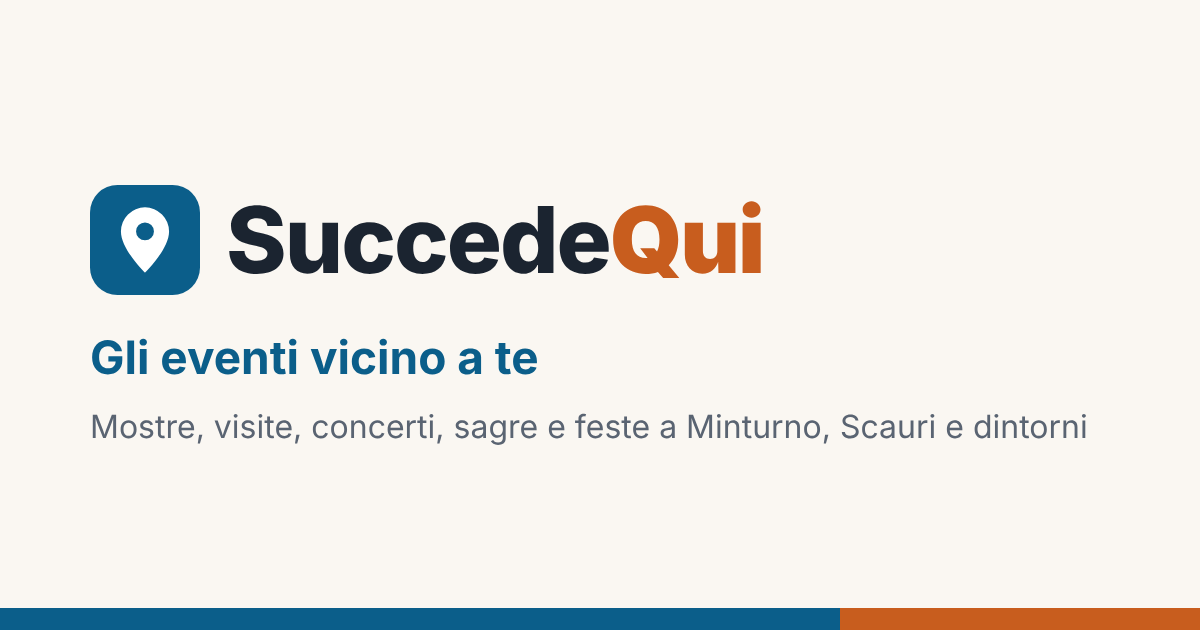
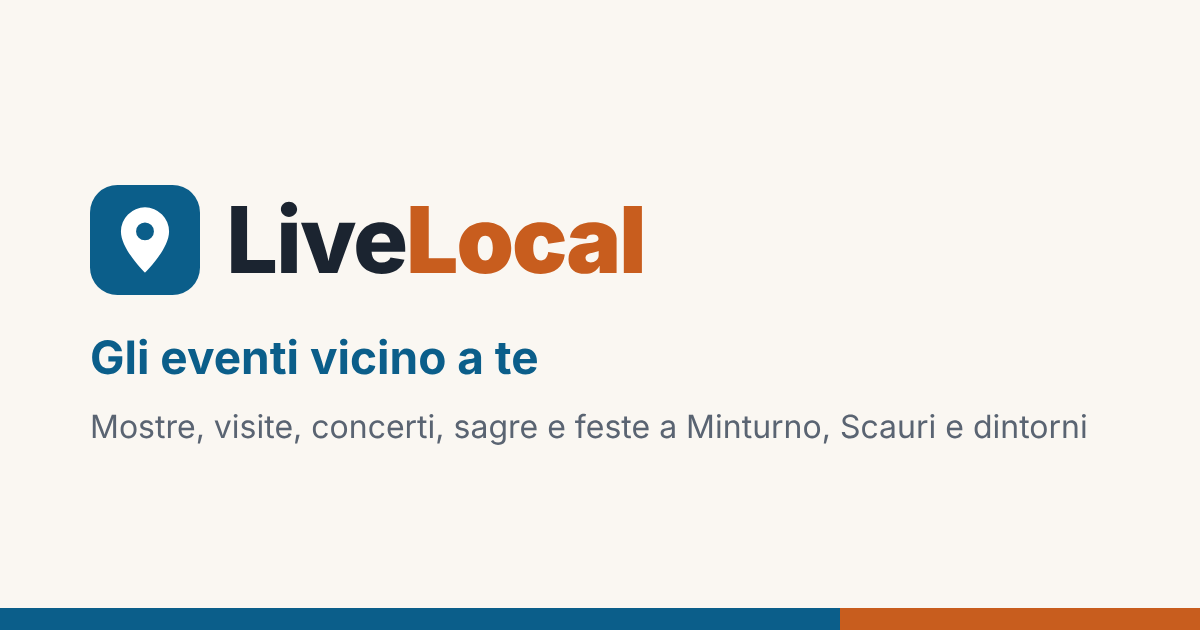
Il sito si chiama LiveLocal
Nuovo nome in intestazione, titoli delle pagine, immagine per le
anteprime su WhatsApp e social, calendario .ics, robots.txt, llms.txt,
README e brief del progetto. Indirizzi delle pagine invariati.

Claude-Session: https://claude.ai/code/session_012jWfbWNtZfDxQvQAswJBxy

Changed region(s): [[0.185, 0.3016, 0.6475, 0.4524]]

diff --git a/src/lib/sito.ts b/src/lib/sito.ts
@@ -2,7 +2,7 @@
 // SITE_URL e BASE_PATH si possono cambiare senza toccare il codice (vedi astro.config.mjs).
 
 export const SITO = {
-  nome: 'SuccedeQui',
+  nome: 'LiveLocal',
   slogan: 'Gli eventi vicino a te',
   descrizione:
     'Calendario gratuito e pubblico degli eventi del territorio: mostre, visite guidate, concerti, sagre, feste e conferenze. Si parte da Minturno, Scauri e le frazioni.',
@@ -11,10 +11,10 @@ export const SITO = {
   promotore: { nome: 'Room & Relax Scauri', url: 'https://roomandrelax.it' },
 };
 
-// Indirizzo pubblico del sito, senza barra finale (es. https://succedequi.it).
-export const SITE_URL: string = (import.meta.env.SITE ?? 'https://succedequi.it').replace(/\/$/, '');
+// Indirizzo pubblico del sito, senza barra finale (es. https://giuseppe210992.github.io).
+export const SITE_URL: string = (import.meta.env.SITE ?? 'https://giuseppe210992.github.io').replace(/\/$/, '');
 
-// Percorso base, con la barra finale (es. "/" oppure "/succedequi/").
+// Percorso base, con la barra finale (es. "/" oppure "/livelocal/").
 const BASE: string = import.meta.env.BASE_URL.endsWith('/')
   ? import.meta.env.BASE_URL
   : `${import.meta.env.BASE_URL}/`;

diff --git a/src/lib/ics.ts b/src/lib/ics.ts
@@ -39,7 +39,7 @@ function piega(riga: string): string {
 function vevento(e: Evento, adesso: Date): string[] {
   const righe = [
     'BEGIN:VEVENT',
-    `UID:${e.anno}-${e.slug}@succedequi`,
+    `UID:${e.anno}-${e.slug}@livelocal`,
     `DTSTAMP:${utc(adesso)}`,
   ];
   if (leggi(e.inizio).ora === null) {
@@ -70,7 +70,7 @@ export function calendario(lista: Evento[], nome = `${SITO.nome} – eventi`): s
   const righe = [
     'BEGIN:VCALENDAR',
     'VERSION:2.0',
-    'PRODID:-//SuccedeQui//Calendario eventi//IT',
+    'PRODID:-//LiveLocal//Calendario eventi//IT',
     'CALSCALE:GREGORIAN',
     'METHOD:PUBLISH',
     `X-WR-CALNAME:${testo(nome)}`,

diff --git a/src/pages/eventi.ics.ts b/src/pages/eventi.ics.ts
@@ -2,8 +2,9 @@
 import type { APIRoute } from 'astro';
 import { eventi } from '../lib/eventi';
 import { calendario } from '../lib/ics';
+import { SITO } from '../lib/sito';
 
 export const GET: APIRoute = () =>
-  new Response(calendario(eventi, 'SuccedeQui – Minturno e dintorni'), {
+  new Response(calendario(eventi, `${SITO.nome} – Minturno e dintorni`), {
     headers: { 'Content-Type': 'text/calendar; charset=utf-8' },
   });

diff --git a/src/pages/robots.txt.ts b/src/pages/robots.txt.ts
@@ -6,7 +6,7 @@ const ROBOT = ['Googlebot', 'Bingbot', 'GPTBot', 'OAI-SearchBot', 'ChatGPT-User'
 
 export const GET: APIRoute = () => {
   const corpo = [
-    '# SuccedeQui: calendario pubblico degli eventi. Lettura consentita a tutti.',
+    '# LiveLocal: calendario pubblico degli eventi. Lettura consentita a tutti.',
     ...ROBOT.flatMap((r) => [`User-agent: ${r}`, 'Allow: /', '']),
     'User-agent: *',
     'Allow: /',

diff --git a/src/styles/globale.css b/src/styles/globale.css
@@ -1,4 +1,4 @@
-/* SuccedeQui — stile unico del sito. Pensato prima per il telefono.
+/* LiveLocal — stile unico del sito. Pensato prima per il telefono.
    Nessun font esterno (niente richieste a terzi, pagine più veloci). */
 
 :root {

diff --git a/CLAUDE.md b/CLAUDE.md
@@ -1,4 +1,4 @@
-# SuccedeQui — brief di progetto per Claude Code
+# LiveLocal (ex SuccedeQui) — brief di progetto per Claude Code
 
 > Sintesi della conversazione del 2 novembre 2026 tra Giuseppe Di Buccio e Claude.
 > Usa questo file come `CLAUDE.md` nella cartella principale del repository, oppure incollalo come primo messaggio.
@@ -26,8 +26,8 @@ Nasce da un problema reale: a Sant'Agata dei Goti un bell'evento culturale in un
 
 | Tema | Decisione |
 |---|---|
-| Nome | **SuccedeQui** — slogan "Gli eventi vicino a te" |
-| Dominio | **succedequi.it** + **succedequi.com** (per proteggere il nome). Al 02/11/2026 il .com risultava libero nel registro Verisign e il .it non aveva record DNS. **Non ancora registrati**: li registra Giuseppe su Register.it |
+| Nome | **LiveLocal** — slogan "Gli eventi vicino a te". Deciso da Giuseppe il 02/11/2026 al posto di SuccedeQui (primo nome) |
+| Dominio | **Da decidere.** livelocal.com è già registrato da altri (dal 1998, verificato via RDAP il 02/11/2026). livelocal.it da verificare su Register.it. I domini succedequi.it/.com non servono più |
 | Nomi scartati | eventiitaly (resta come riserva), eventitaly / eventoday / eventiqui / eventivicini (già presi), relaxevent (legato al B&B, vedi sotto) |
 | Neutralità | Il sito è **neutro**, non è un sito del B&B. Altrimenti Comune, Pro Loco e altre strutture non contribuiscono. Room & Relax compare solo come **"Un progetto promosso da Room & Relax Scauri"** nel footer, con link a roomandrelax.it |
 | Zona pilota | **Minturno, con tutte le frazioni** (sicuramente Scauri e Marina di Minturno; elenco completo delle frazioni da verificare su fonte ufficiale). Ogni frazione ha una sua pagina, perché molti cercano "eventi Scauri" e non "eventi Minturno" |
@@ -51,7 +51,7 @@ Nasce da un problema reale: a Sant'Agata dei Goti un bell'evento culturale in un
 | Modulo segnalazioni | **Google Moduli** | Lo crea Giuseppe a mano: tu prepari domande e testi pronti da copiare |
 | Archivio e moderazione | **Google Fogli**, due fogli: **privato** (risposte complete con contatti) e **pubblico** (solo eventi approvati, **senza contatti**) | Giuseppe approva da telefono scrivendo "sì" in una colonna. Il foglio pubblico si genera dal privato (es. con QUERY/FILTER che escludono le colonne dei contatti) |
 | Aggiornamento automatico | **GitHub Actions**, ogni ora + a ogni push | Scarica il CSV del foglio pubblico (URL in una variabile del repo), rigenera il sito e lo pubblica |
-| Hosting | **GitHub Pages** sul repo `GioTec21/succedequi` (da creare) | Dominio personalizzato succedequi.it in seguito (file CNAME + record DNS su Register.it, con guida passo passo per Android) |
+| Hosting | **GitHub Pages** sul repo `Giuseppe210992/livelocal`: https://giuseppe210992.github.io/livelocal/ | Dominio personalizzato in seguito (record DNS su Register.it + Custom domain in Settings → Pages, con guida passo passo per Android) |
 | Mappa | **Leaflet + OpenStreetMap** | Senza chiavi a pagamento. Rispetta la policy d'uso delle tile OSM |
 | Dati dei comuni | **Elenco ufficiale ISTAT** (codice, comune, provincia, regione) + coordinate del centro di ogni comune | Per il pilota bastano Minturno e le sue frazioni, ma lo schema deve già prevedere tutta Italia |
 | Più avanti | Firebase per account di organizzatori fidati che pubblicano senza attesa | Non ora |
@@ -190,7 +190,7 @@ Sul modulo servono anche una verifica anti-bot e l'informativa privacy. Gli orga
 
 ## 11. Stato dei lavori (aggiornato da Claude Code)
 
-**Repository: `Giuseppe210992/livelocal`** (creato da Giuseppe il 2 novembre 2026; nome del repo scelto da lui, il sito si chiama ancora SuccedeQui). Il codice è nella radice del repo, branch `main`. La copia in `Giuseppe210992/a` (cartella `succedequi/`) è ferma al passo 1 e non va più aggiornata.
+**Repository: `Giuseppe210992/livelocal`**, sito online su https://giuseppe210992.github.io/livelocal/ (GitHub Pages attivato da Giuseppe il 2 novembre 2026). **Il sito si chiama LiveLocal** (rinominato da SuccedeQui il 2 novembre 2026). Il codice è nella radice del repo, branch `main`. La copia in `Giuseppe210992/a` (cartella `succedequi/`) è ferma al passo 1 e non va più aggiornata.
 
 **2 novembre 2026 — Fase 1, passo 2 fatto:** pagine `/mappa/` e `/vicino-a-me/` (componente `Esplora.astro` + `src/scripts/esplora.ts`): giorno a scelta (tutti, weekend, 14 giorni, data libera), posizione del telefono con consenso oppure paese di partenza, raggio 10/25/50 km, mappa Leaflet + OSM. Collaudo automatico in Chromium: 10 scenari ok (giorni, weekend, data passata, posizione concessa/negata, senza JS). GitHub Action `pubblica.yml` (push su main + ogni ora + manuale). Giuseppe deve attivare Pages (Settings → Pages → Source: GitHub Actions).
 
@@ -201,5 +201,5 @@ Sul modulo servono anche una verifica anti-bot e l'informativa privacy. Gli orga
 - Eventi: 7 veri, ognuno con fonte (5 in programma tra 4 e 14 novembre 2026, 2 conclusi come archivio). Nessun evento inventato. Il calendario di Natale 2026 del Comune (5 dicembre - 6 gennaio) non è ancora uscito: avviso con proposte entro l'11 novembre 2026.
 - Ricerca fonti: WebFetch è bloccato dalla rete della sessione; funziona il connettore TinyFish (search + fetch_content).
 - Prossimi passi: verifica di Giuseppe sul telefono del link pubblicato; Test dei risultati multimediali di Google; ricerca per comune (elenco ISTAT); pagine statiche /oggi/, /weekend/, /categoria/; filtri categoria e solo gratuiti.
-- Decisioni aperte: categoria "Apertura straordinaria" (aggiunta), frazioni Fontana Perrelli e Solacciano, licenza dati aperti, nome del sito (SuccedeQui o LiveLocal?).
+- Decisioni aperte: categoria "Apertura straordinaria" (aggiunta), frazioni Fontana Perrelli e Solacciano, licenza dati aperti, dominio (livelocal.com è preso; livelocal.it da verificare).
 - Privacy policy (Fase 2): citare che le tessere della mappa arrivano da OpenStreetMap e che la posizione resta nel telefono.

diff --git a/README.md b/README.md
@@ -1,4 +1,4 @@
-# SuccedeQui
+# LiveLocal
 
 **Gli eventi vicino a te.** Calendario gratuito e pubblico degli eventi del territorio, leggibile da Google e dagli assistenti AI. Zona pilota: Minturno con le frazioni.
 
@@ -9,7 +9,7 @@ Un progetto promosso da [Room & Relax Scauri](https://roomandrelax.it).
 Il sito è fatto di **pagine statiche**: l'HTML è già pronto, non serve JavaScript per leggerlo. È così che lo leggono bene anche i crawler delle IA.
 
 ```
-succedequi/
+livelocal/
 ├── src/data/
 │   ├── eventi.json      ← GLI EVENTI (qui si aggiunge o si modifica un evento)
 │   ├── luoghi.json      ← regioni, province, comuni (codice ISTAT) e frazioni
@@ -82,10 +82,10 @@ npm run dev        # anteprima mentre si lavora: http://localhost:4321
 npm run build      # costruisce il sito in dist/ ed esegue i controlli
 ```
 
-Variabili facoltative: `SITE_URL` (indirizzo pubblico, predefinito `https://succedequi.it`) e `BASE_PATH` (sottocartella, es. `/succedequi` per GitHub Pages senza dominio).
+Variabili facoltative: `SITE_URL` (indirizzo pubblico, predefinito `https://giuseppe210992.github.io`) e `BASE_PATH` (sottocartella, predefinita `/livelocal`; vuota con un dominio proprio).
 
 ## Decisioni ancora aperte
 
 - **Categorie:** al brief è stata aggiunta "Apertura straordinaria" (musei e siti aperti gratis o in giorni speciali). Da confermare.
 - **Frazioni:** pubblicate le 6 frazioni citate dal portale turistico locale e da Wikipedia (Scauri, Marina di Minturno, Tremensuoli, Tufo, Santa Maria Infante, Pulcherini). Wikipedia cita anche Fontana Perrelli e Solacciano: da verificare con il Comune.
-- **Licenza dei dati aperti** (`eventi.json`): da decidere. Proposta: CC BY 4.0, riuso libero citando SuccedeQui.
+- **Licenza dei dati aperti** (`eventi.json`): da decidere. Proposta: CC BY 4.0, riuso libero citando LiveLocal.
